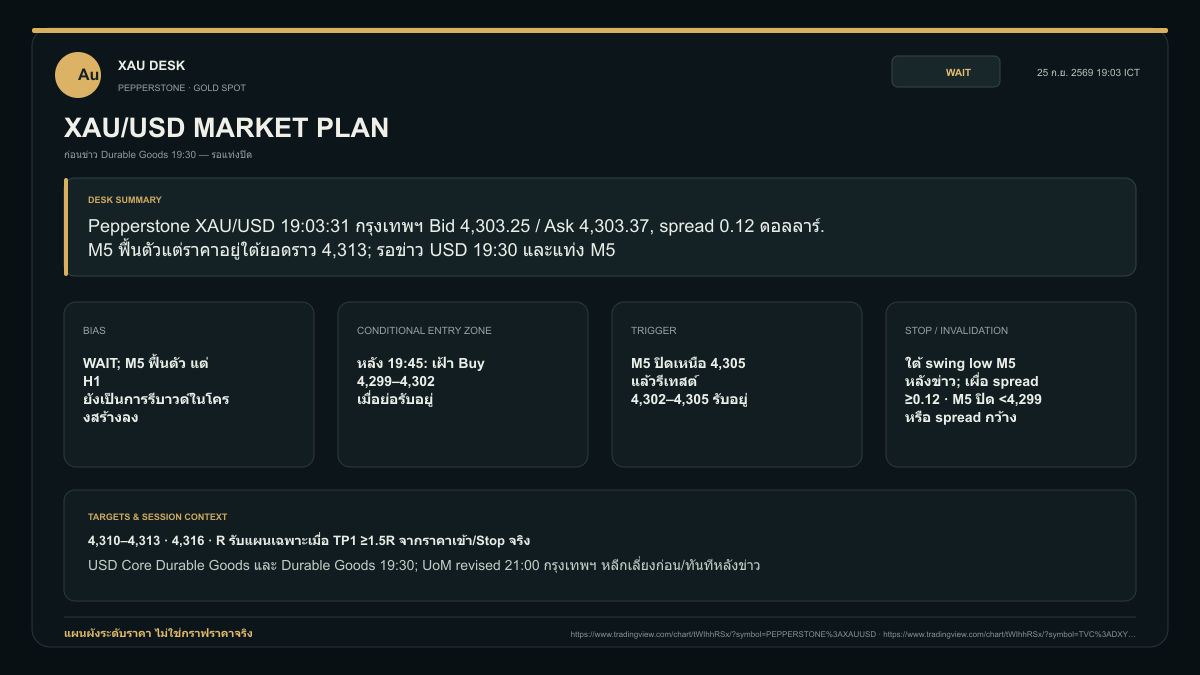
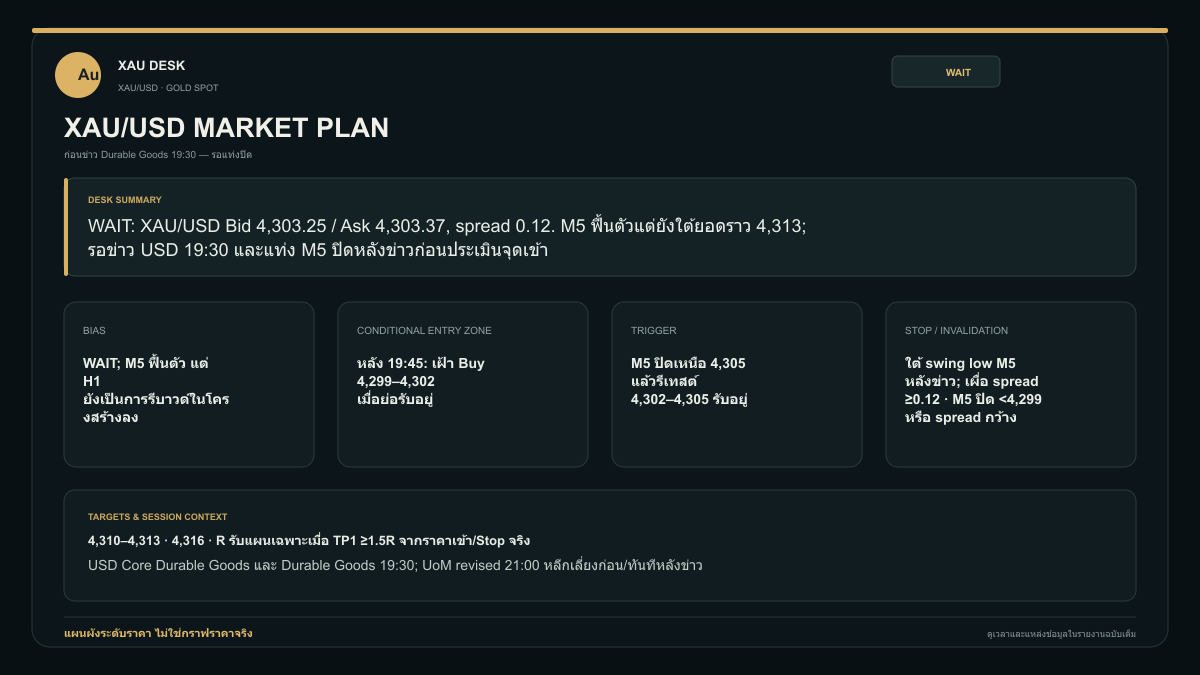
Simplify XAU brief copy [skip notify]

diff --git a/src/main.js b/src/main.js
@@ -70,7 +70,7 @@ function renderReport(report) {
   const sources = Array.isArray(report.sources) ? report.sources.join(" · ") : (report.sources || "TradingView · Pepperstone");
   byId("report-sources").textContent = sources;
   byId("snapshot-time").textContent = formatDate(report.snapshotAt);
-  byId("snapshot-source").textContent = report.priceSource || "Analysis source: Codex desk schedule · PEPPERSTONE:XAUUSD";
+  byId("snapshot-source").textContent = "แหล่งข้อมูลอยู่ในรายงานฉบับเต็ม";
   const imageUrl = report.imageUrl || (report.image ? (BASE_URL + "reports/latest.png") : "");
   const imageLink = byId("report-image-link");
   if (imageUrl) {
